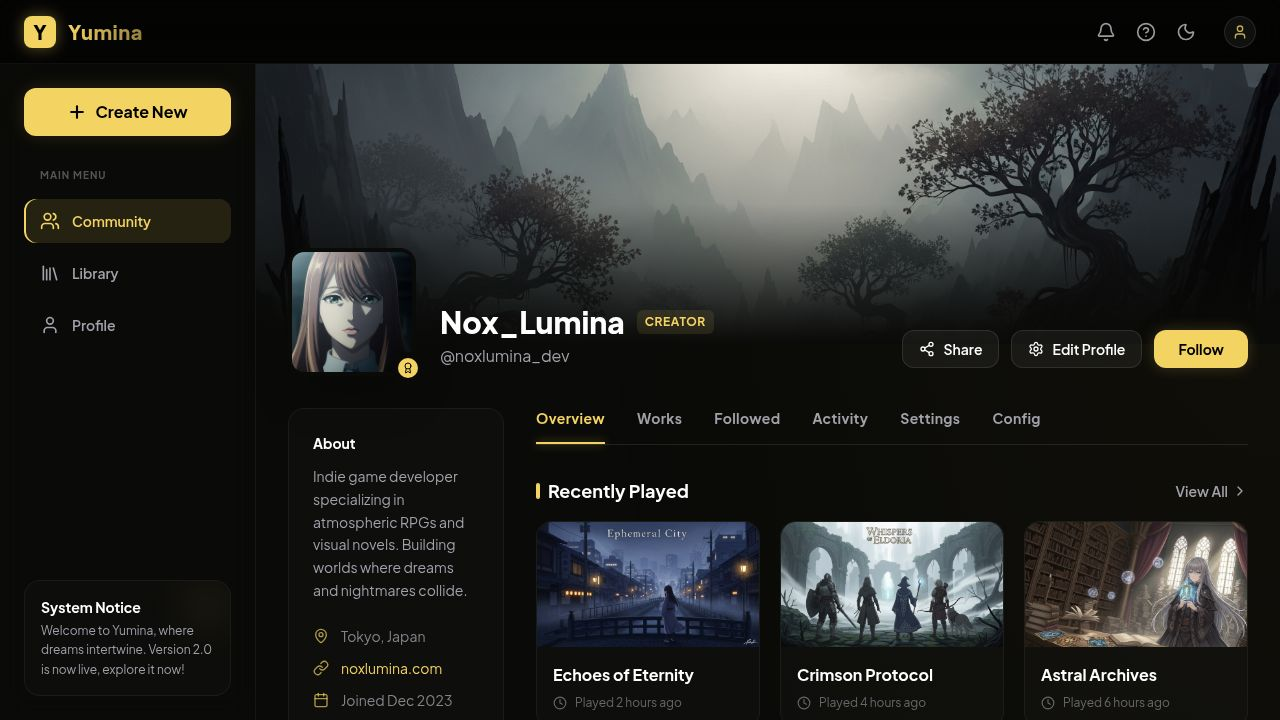
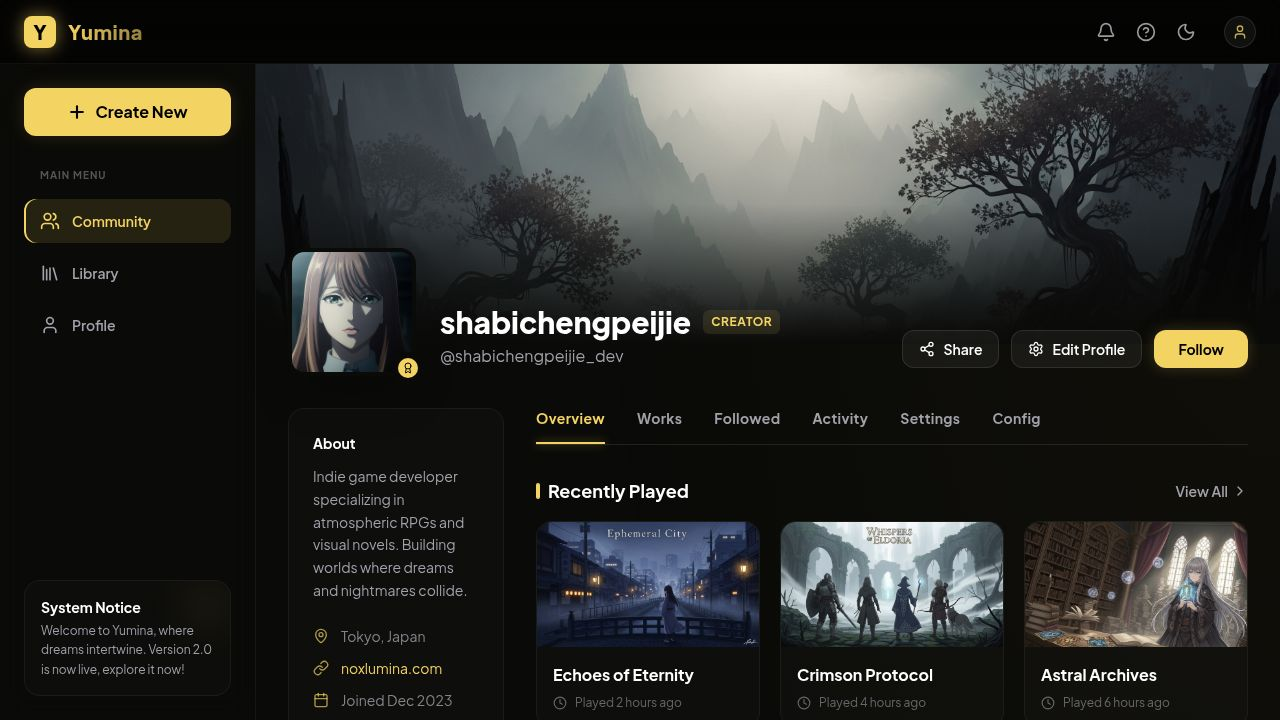
Update user display name and username across the profile
Modify default display name and username in EditProfileModal and Profile page components.

Replit-Commit-Author: Agent
Replit-Commit-Session-Id: 5684124b-81dc-4bf0-b654-7c7ba889fd75
Replit-Commit-Checkpoint-Type: full_checkpoint
Replit-Commit-Event-Id: 3d1c16b0-7d4d-405d-b3be-adb474a89813
Replit-Commit-Screenshot-Url: https://storage.googleapis.com/screenshot-production-us-central1/da3ec460-5c42-4690-8057-380aca45b37c/5684124b-81dc-4bf0-b654-7c7ba889fd75/efhwwDb
Replit-Helium-Checkpoint-Created: true

Changed region(s): [[0.3438, 0.4278, 0.625, 0.5194]]

diff --git a/client/src/components/profile/EditProfileModal.tsx b/client/src/components/profile/EditProfileModal.tsx
@@ -136,7 +136,7 @@ export default function EditProfileModal({ isOpen, onClose }: EditProfileModalPr
                   <Label htmlFor="display-name" className="text-sub font-semibold text-xs uppercase tracking-wider">Display Name</Label>
                   <Input 
                     id="display-name" 
-                    defaultValue="Nox_Lumina" 
+                    defaultValue="shabichengpeijie" 
                     className="bg-white/[0.02] border-white/10 text-main h-12 rounded-xl focus-visible:ring-gold/50 focus-visible:border-gold/50 transition-colors"
                   />
                 </div>
@@ -144,7 +144,7 @@ export default function EditProfileModal({ isOpen, onClose }: EditProfileModalPr
                   <Label htmlFor="username" className="text-sub font-semibold text-xs uppercase tracking-wider">Username</Label>
                   <Input 
                     id="username" 
-                    defaultValue="@noxlumina_dev" 
+                    defaultValue="@shabichengpeijie_dev" 
                     className="bg-white/[0.02] border-white/10 text-main h-12 rounded-xl focus-visible:ring-gold/50 focus-visible:border-gold/50 transition-colors"
                   />
                 </div>

diff --git a/client/src/pages/Profile.tsx b/client/src/pages/Profile.tsx
@@ -63,12 +63,12 @@ export default function Profile() {
               
               <div className="mb-2">
                 <h1 className="text-3xl font-black text-main flex items-center gap-3">
-                  Nox_Lumina
+                  shabichengpeijie
                   {isCreator && (
                     <span className="text-xs font-bold bg-gold/10 text-gold px-2 py-1 rounded-md uppercase tracking-wider">Creator</span>
                   )}
                 </h1>
-                <p className="text-sub mt-1">@noxlumina_dev</p>
+                <p className="text-sub mt-1">@shabichengpeijie_dev</p>
               </div>
             </div>
 
